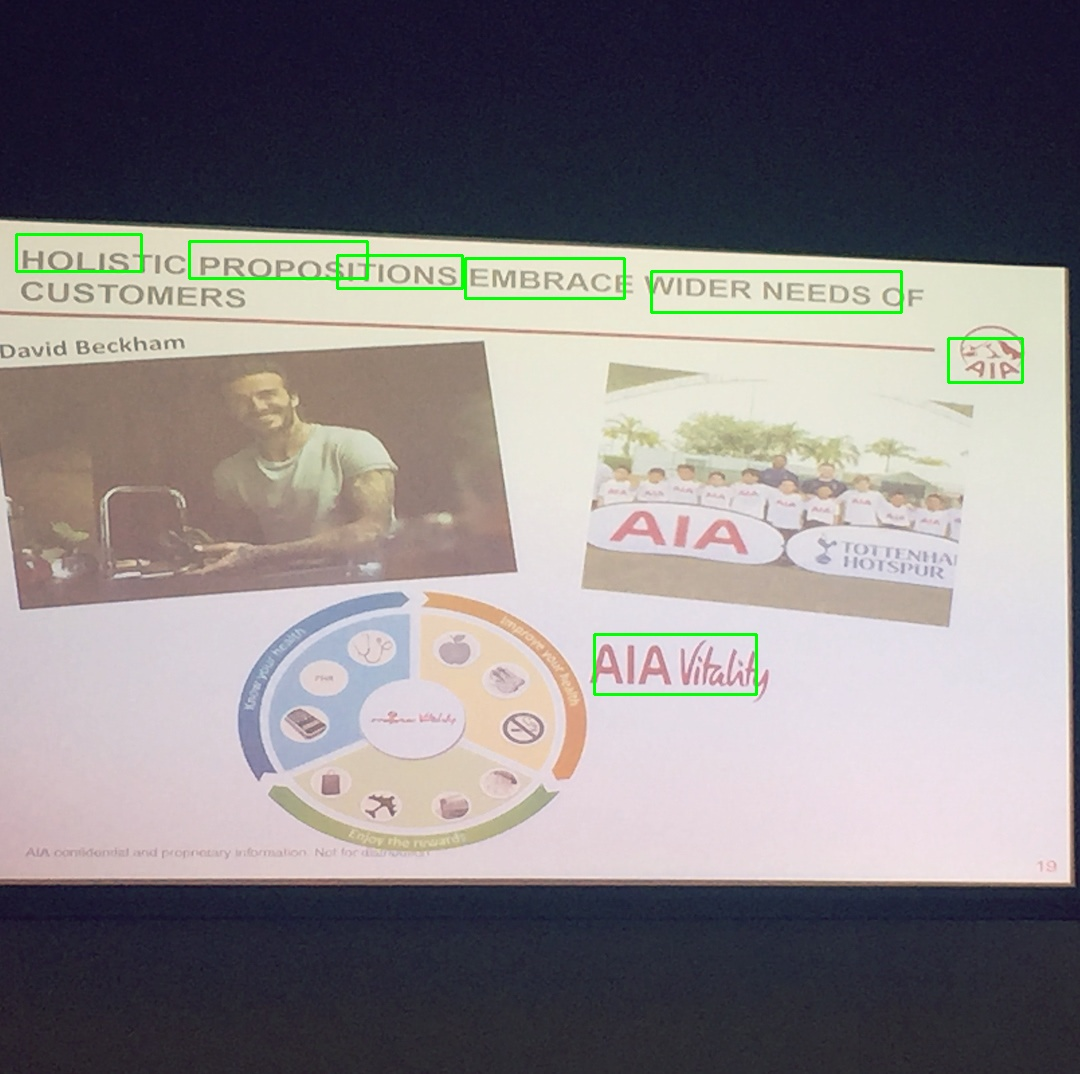
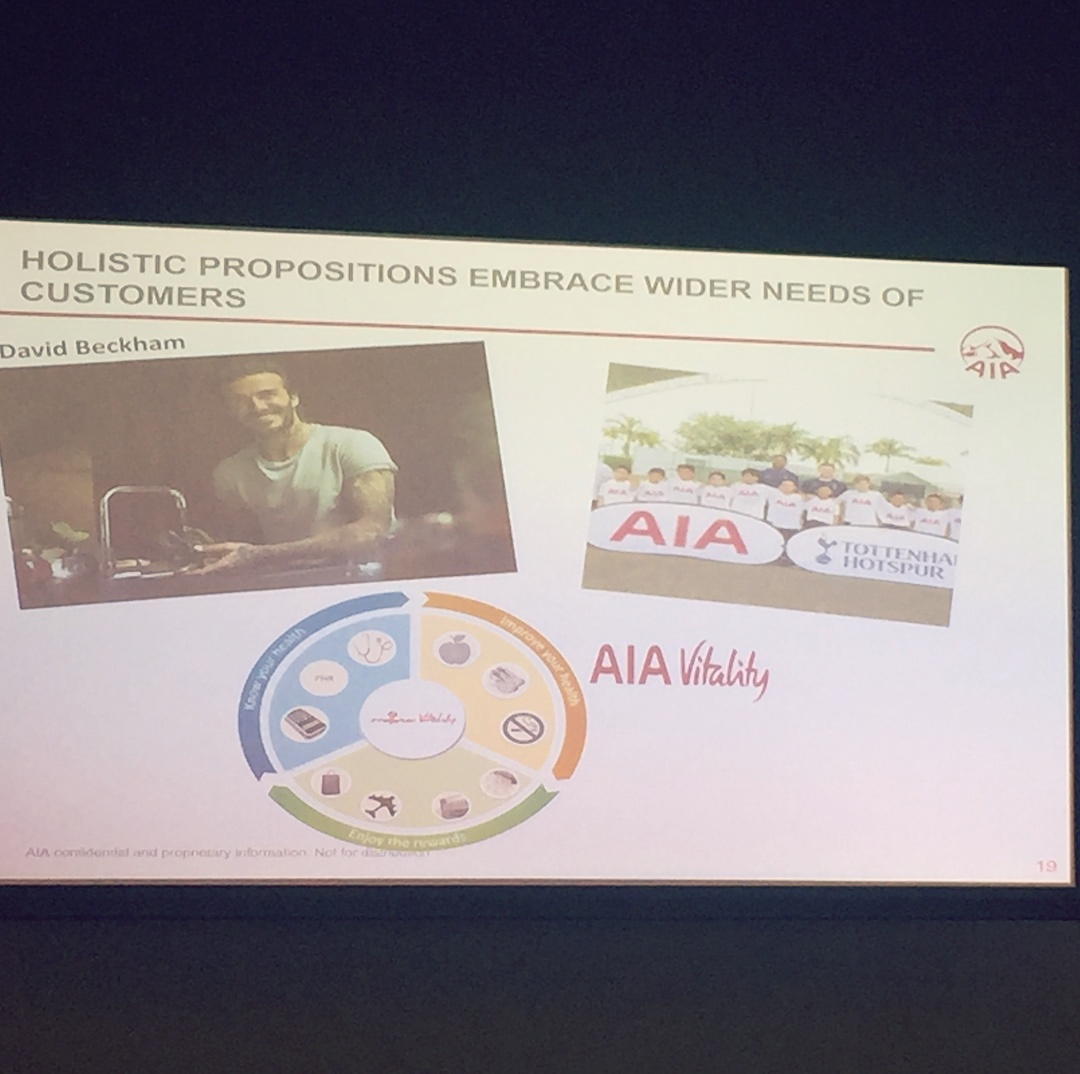
Text detection improved to identify images vs photos

Changed region(s): [[0.0, 0.2151, 0.8556, 0.3073], [0.55, 0.5838, 0.7028, 0.676], [0.8556, 0.3073, 0.9472, 0.3687]]

diff --git a/TextDetection/text_detection.py b/TextDetection/text_detection.py
@@ -32,109 +32,121 @@ image = cv2.imread(args["image"])
 orig = image.copy()
 (H, W) = image.shape[:2]
 
-# set the new width and height and then determine the ratio in change
-# for both the width and height
-(newW, newH) = (args["width"], args["height"])
-rW = W / float(newW)
-rH = H / float(newH)
+# count number of colors in image
+hist = cv2.calcHist(image,[0,1,2], None, (256,256,256), [0,256,0,256,0,256])
 
-# resize the image and grab the new image dimensions
-image = cv2.resize(image, (newW, newH))
-(H, W) = image.shape[:2]
+color_count = 0
+for i in hist:
+	for j in i:
+		for k in j:
+			if k:
+				color_count += 1
 
-# define the two output layer names for the EAST detector model that
-# we are interested -- the first is the output probabilities and the
-# second can be used to derive the bounding box coordinates of text
-layerNames = [
-	"feature_fusion/Conv_7/Sigmoid",
-	"feature_fusion/concat_3"]
+if color_count < 500:
 
-# load the pre-trained EAST text detector
-print("[INFO] loading EAST text detector...")
-net = cv2.dnn.readNet(args["east"])
+	# set the new width and height and then determine the ratio in change
+	# for both the width and height
+	(newW, newH) = (args["width"], args["height"])
+	rW = W / float(newW)
+	rH = H / float(newH)
 
-# construct a blob from the image and then perform a forward pass of
-# the model to obtain the two output layer sets
-blob = cv2.dnn.blobFromImage(image, 1.0, (W, H),
-	(123.68, 116.78, 103.94), swapRB=True, crop=False)
-start = time.time()
-net.setInput(blob)
-(scores, geometry) = net.forward(layerNames)
-end = time.time()
+	# resize the image and grab the new image dimensions
+	image = cv2.resize(image, (newW, newH))
+	(H, W) = image.shape[:2]
 
-# show timing information on text prediction
-print("[INFO] text detection took {:.6f} seconds".format(end - start))
+	# define the two output layer names for the EAST detector model that
+	# we are interested -- the first is the output probabilities and the
+	# second can be used to derive the bounding box coordinates of text
+	layerNames = [
+		"feature_fusion/Conv_7/Sigmoid",
+		"feature_fusion/concat_3"]
 
-# grab the number of rows and columns from the scores volume, then
-# initialize our set of bounding box rectangles and corresponding
-# confidence scores
-(numRows, numCols) = scores.shape[2:4]
-rects = []
-confidences = []
+	# load the pre-trained EAST text detector
+	print("[INFO] loading EAST text detector...")
+	net = cv2.dnn.readNet(args["east"])
 
-# loop over the number of rows
-for y in range(0, numRows):
-	# extract the scores (probabilities), followed by the geometrical
-	# data used to derive potential bounding box coordinates that
-	# surround text
-	scoresData = scores[0, 0, y]
-	xData0 = geometry[0, 0, y]
-	xData1 = geometry[0, 1, y]
-	xData2 = geometry[0, 2, y]
-	xData3 = geometry[0, 3, y]
-	anglesData = geometry[0, 4, y]
+	# construct a blob from the image and then perform a forward pass of
+	# the model to obtain the two output layer sets
+	blob = cv2.dnn.blobFromImage(image, 1.0, (W, H),
+		(123.68, 116.78, 103.94), swapRB=True, crop=False)
+	start = time.time()
+	net.setInput(blob)
+	(scores, geometry) = net.forward(layerNames)
+	end = time.time()
 
-	# loop over the number of columns
-	for x in range(0, numCols):
-		# if our score does not have sufficient probability, ignore it
-		if scoresData[x] < args["min_confidence"]:
-			continue
+	# show timing information on text prediction
+	print("[INFO] text detection took {:.6f} seconds".format(end - start))
 
-		# compute the offset factor as our resulting feature maps will
-		# be 4x smaller than the input image
-		(offsetX, offsetY) = (x * 4.0, y * 4.0)
+	# grab the number of rows and columns from the scores volume, then
+	# initialize our set of bounding box rectangles and corresponding
+	# confidence scores
+	(numRows, numCols) = scores.shape[2:4]
+	rects = []
+	confidences = []
 
-		# extract the rotation angle for the prediction and then
-		# compute the sin and cosine
-		angle = anglesData[x]
-		cos = np.cos(angle)
-		sin = np.sin(angle)
+	# loop over the number of rows
+	for y in range(0, numRows):
+		# extract the scores (probabilities), followed by the geometrical
+		# data used to derive potential bounding box coordinates that
+		# surround text
+		scoresData = scores[0, 0, y]
+		xData0 = geometry[0, 0, y]
+		xData1 = geometry[0, 1, y]
+		xData2 = geometry[0, 2, y]
+		xData3 = geometry[0, 3, y]
+		anglesData = geometry[0, 4, y]
 
-		# use the geometry volume to derive the width and height of
-		# the bounding box
-		h = xData0[x] + xData2[x]
-		w = xData1[x] + xData3[x]
+		# loop over the number of columns
+		for x in range(0, numCols):
+			# if our score does not have sufficient probability, ignore it
+			if scoresData[x] < args["min_confidence"]:
+				continue
 
-		# compute both the starting and ending (x, y)-coordinates for
-		# the text prediction bounding box
-		endX = int(offsetX + (cos * xData1[x]) + (sin * xData2[x]))
-		endY = int(offsetY - (sin * xData1[x]) + (cos * xData2[x]))
-		startX = int(endX - w)
-		startY = int(endY - h)
+			# compute the offset factor as our resulting feature maps will
+			# be 4x smaller than the input image
+			(offsetX, offsetY) = (x * 4.0, y * 4.0)
 
-		# add the bounding box coordinates and probability score to
-		# our respective lists
-		rects.append((startX, startY, endX, endY))
-		confidences.append(scoresData[x])
+			# extract the rotation angle for the prediction and then
+			# compute the sin and cosine
+			angle = anglesData[x]
+			cos = np.cos(angle)
+			sin = np.sin(angle)
 
-# apply non-maxima suppression to suppress weak, overlapping bounding
-# boxes
-boxes = non_max_suppression(np.array(rects), probs=confidences)
+			# use the geometry volume to derive the width and height of
+			# the bounding box
+			h = xData0[x] + xData2[x]
+			w = xData1[x] + xData3[x]
 
-# Only count if more than 3 words
-if len(boxes) > 3:
+			# compute both the starting and ending (x, y)-coordinates for
+			# the text prediction bounding box
+			endX = int(offsetX + (cos * xData1[x]) + (sin * xData2[x]))
+			endY = int(offsetY - (sin * xData1[x]) + (cos * xData2[x]))
+			startX = int(endX - w)
+			startY = int(endY - h)
 
-	# loop over the bounding boxes
-	for (startX, startY, endX, endY) in boxes:
-		# scale the bounding box coordinates based on the respective
-		# ratios
-		startX = int(startX * rW)
-		startY = int(startY * rH)
-		endX = int(endX * rW)
-		endY = int(endY * rH)
+			# add the bounding box coordinates and probability score to
+			# our respective lists
+			rects.append((startX, startY, endX, endY))
+			confidences.append(scoresData[x])
 
-		# draw the bounding box on the image
-		cv2.rectangle(orig, (startX, startY), (endX, endY), (0, 255, 0), 2)
+	# apply non-maxima suppression to suppress weak, overlapping bounding
+	# boxes
+	boxes = non_max_suppression(np.array(rects), probs=confidences)
+
+	# Only count if more than 3 words
+	if len(boxes) > 2:
+
+		# loop over the bounding boxes
+		for (startX, startY, endX, endY) in boxes:
+			# scale the bounding box coordinates based on the respective
+			# ratios
+			startX = int(startX * rW)
+			startY = int(startY * rH)
+			endX = int(endX * rW)
+			endY = int(endY * rH)
+
+			# draw the bounding box on the image
+			cv2.rectangle(orig, (startX, startY), (endX, endY), (0, 255, 0), 2)
 
 # show the output image
 # cv2.imshow("Text Detection", orig)

diff --git a/TextDetection/color.py b/TextDetection/color.py
@@ -1,0 +1,13 @@
+import cv2
+
+image = cv2.imread("Testing/Sidecar-21689150_173486586555782_7058856979510329344_n-20170913-18h-04m.jpg")
+hist = cv2.calcHist(image,[0,1,2], None, (256,256,256), [0,256,0,256,0,256])
+
+color_count = 0
+for i in hist:
+	for j in i:
+		for k in j:
+			if k:
+				color_count += 1
+
+print(color_count)
